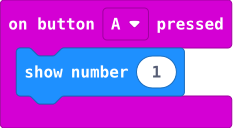
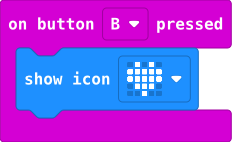
adding a b button

diff --git a/main.ts b/main.ts
@@ -1,6 +1,9 @@
 input.onButtonPressed(Button.A, function () {
     basic.showNumber(1)
 })
+input.onButtonPressed(Button.B, function () {
+    basic.showIcon(IconNames.Heart)
+})
 basic.showLeds(`
     . . . . .
     . . . . #
@@ -10,4 +13,3 @@ basic.showLeds(`
     `)
 basic.showString("Hello Rocket")
 basic.showNumber(5)
-basic.showNumber(7)
